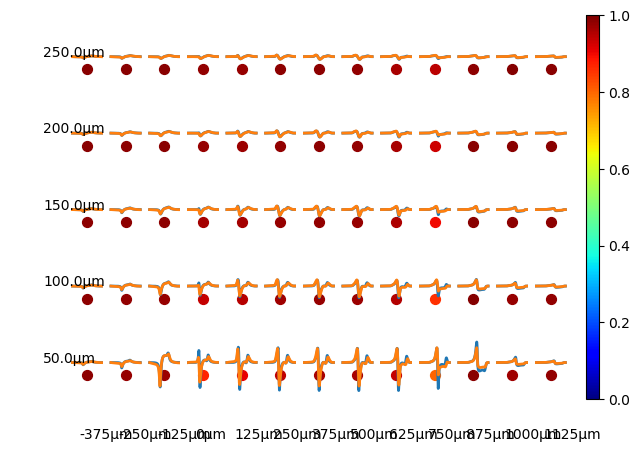
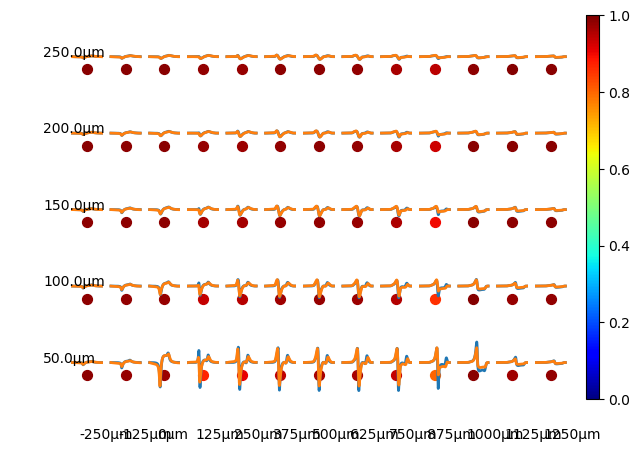
petit fix

Changed region(s): [[0.125, 0.9292, 0.5312, 0.9912], [0.5625, 0.9292, 0.9375, 0.9912]]

diff --git a/src/demo.py b/src/demo.py
@@ -133,7 +133,7 @@ for ifil in range(elpos.shape[0]):
     scatter(4, -2 * 10**-3, 50, color , 'o', cmap )
     ylim(array([-5, 5]) * 10**-3)
     if ifil > 51:
-        text(2, -12*10**-3, str((ifil-53)*125-250) + '\u03BCm')
+        text(2, -12*10**-3, str((ifil-53)*125-250+125) + '\u03BCm')
     if ifil % 13 == 0:
         text(-8, 0*10**-3, str(-fix(ifil/13)*50+250) + '\u03BCm')
     axis('off')
